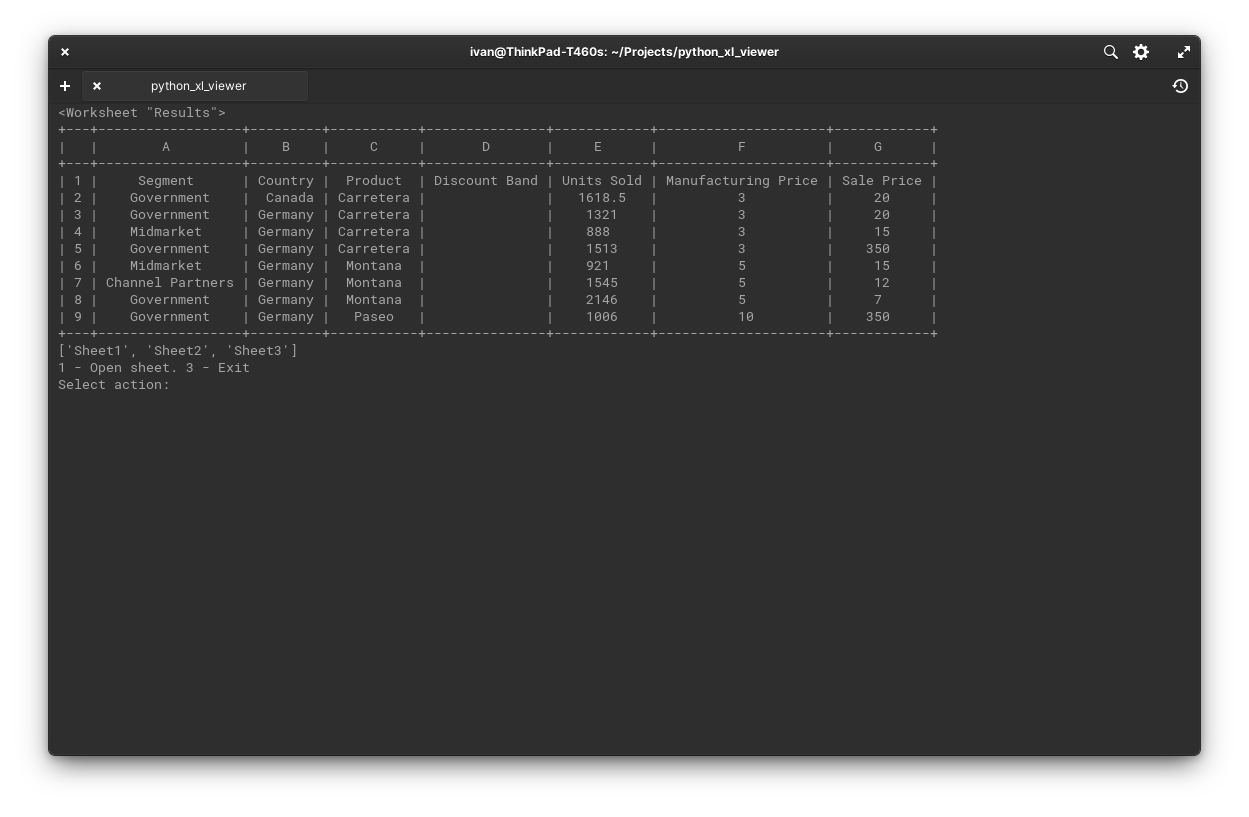
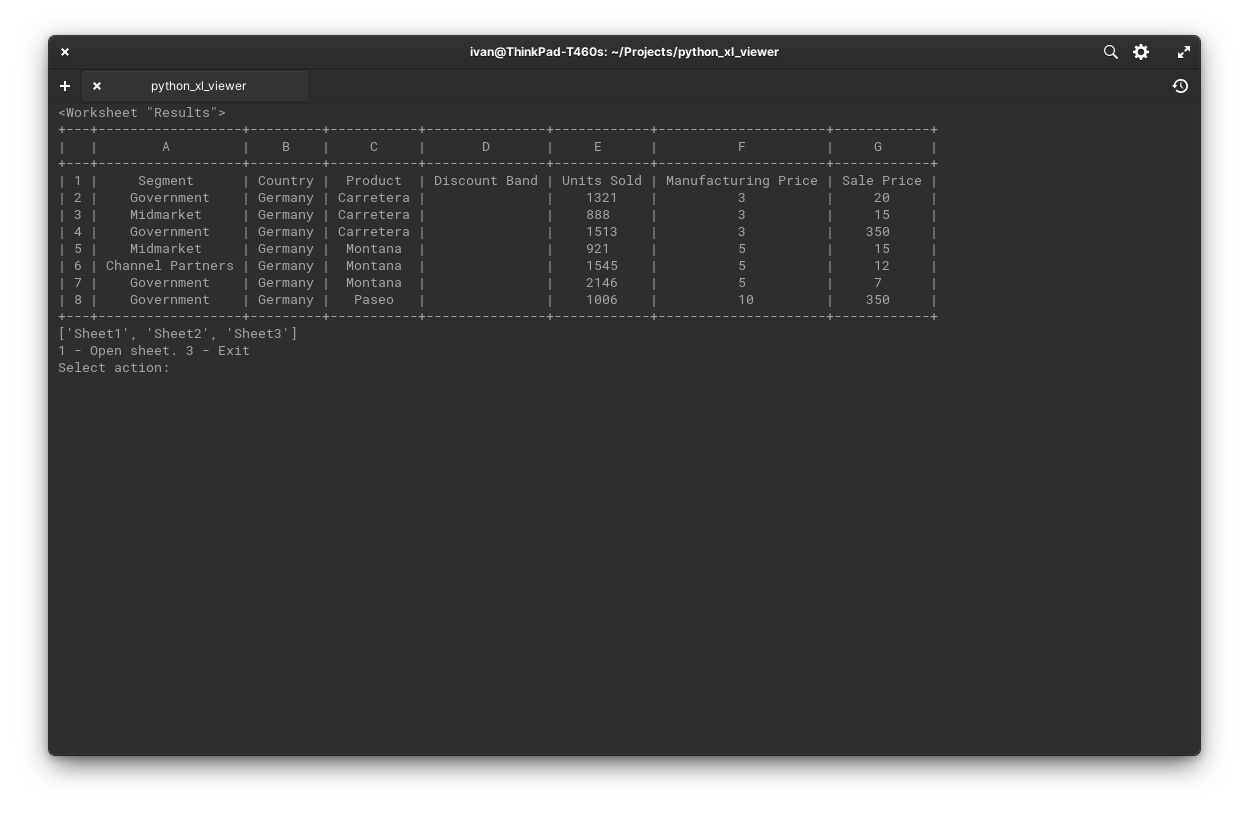
2023 refactor

diff --git a/xl_viewer.py b/xl_viewer.py
@@ -74,7 +74,7 @@ class excelFile:
         xl_search_term_offset = 0
         if xl_search_term[-2:] == "-h":
             xl_search_term_offset = 3
-            for row in self.sheet.iter_rows(min_row=1, max_row=2):
+            for row in self.sheet.iter_rows(min_row=1, max_row=1):
                 self.wb["Results"].append((c.value for c in row))
         for row in self.sheet.iter_rows():
             search_match = False
